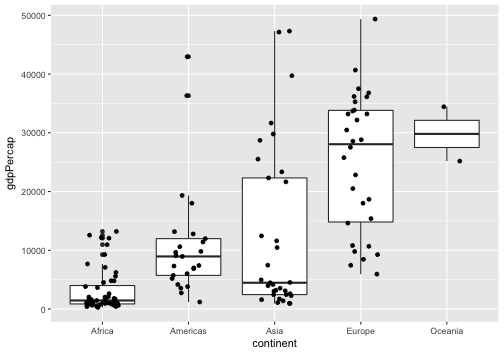
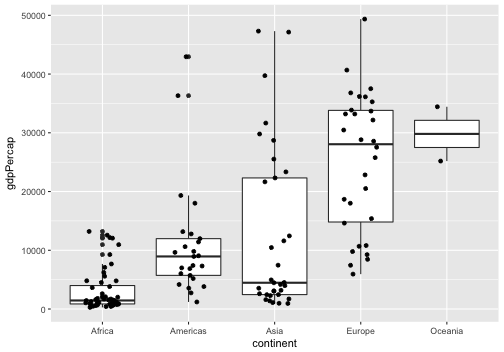
Update, in case something terrible happens

diff --git a/datavis_ggplot2.html b/datavis_ggplot2.html
@@ -35,16 +35,6 @@ class: inverse, middle
 
 ---
 
-# Advantages over base R graphics
-
-- Less time to high-quality plots
-- Intelligent default values
-- Easy to summarize data
-- Easy to include many types of color scales
-- Reasoning behind all default decisions
-
----
-
 # Goals
 
 We will understand how:
@@ -56,6 +46,11 @@ We will understand how:
 - Control axes and legends using `scales/guides`
 - Change plot appearance using `themes` and other options
 - Save plots using `ggsave()`
+
+## Plan
+
+1. General overview of key concepts: `aesthetics`, `geoms`, layering, `scales`, `facets`, `themes`
+1. "Cookbook" approach to demonstrate details
 
 ---
 
@@ -187,10 +182,10 @@ print(head(df, n = 3), digits = 2)
 ```
 
 ```
-##   xvar yvar
-## 1 1.23 0.38
-## 2 0.66 0.57
-## 3 1.17 1.12
+##    xvar  yvar
+## 1  1.15  0.58
+## 2 -0.96 -0.16
+## 3  1.38  1.10
 ```
 
 
@@ -209,10 +204,10 @@ print(head(df, n = 3), digits = 2)
 ```
 
 ```
-##   xvar yvar
-## 1 1.23 0.38
-## 2 0.66 0.57
-## 3 1.17 1.12
+##    xvar  yvar
+## 1  1.15  0.58
+## 2 -0.96 -0.16
+## 3  1.38  1.10
 ```
 
 
@@ -822,12 +817,16 @@ class: inverse, middle, center
 
 **What** data is mapped to which plot characteristic
 
+`aes(x = ...)`
+
 ]
 
 .pull-right[
 ## scales
 
-**How** to map data to plot characteristics
+**How** to map&lt;br&gt;data to plot characteristics
+
+`scale_x_...(...)`
 ]
 
 ---
@@ -875,7 +874,7 @@ ggplot(
 **Note** how `scales` control the legend!
 
 .pull-left[
-## `aesthetics`
+### `aes(thetics)`
 
 "Fill" the bars with colors by sex
 
@@ -900,13 +899,17 @@ ggplot(
 ]
 
 .pull-right[
-## `scales`
+### `scales`
 
 - Use a different color palette
 - Change name to "Patient sex"
 
 ![](datavis_ggplot2_files/figure-html/unnamed-chunk-41-1.png)&lt;!-- --&gt;
 ]
+
+---
+
+
 
 ---
 
